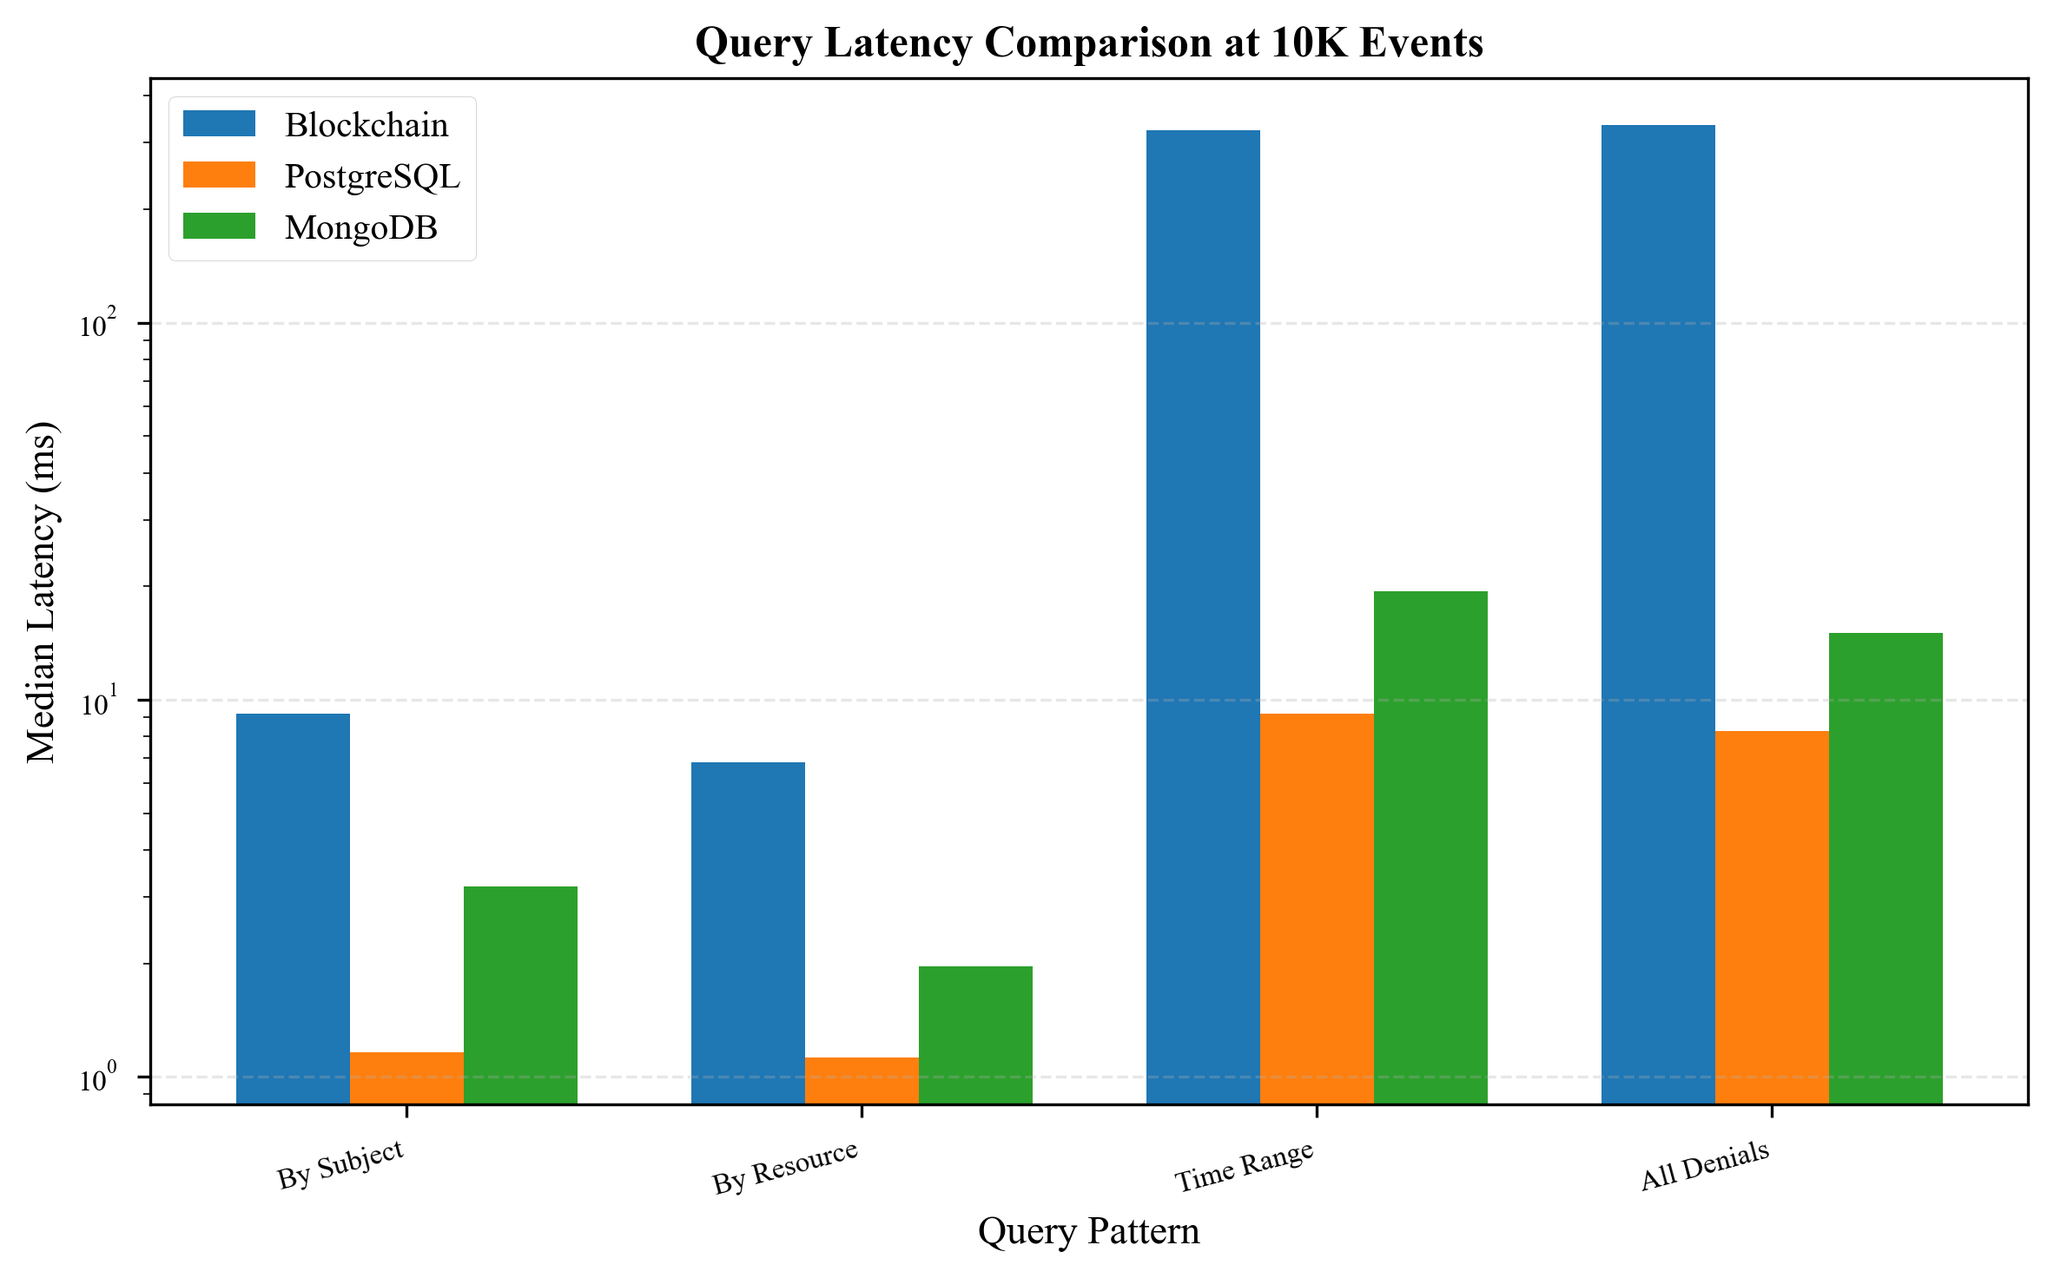
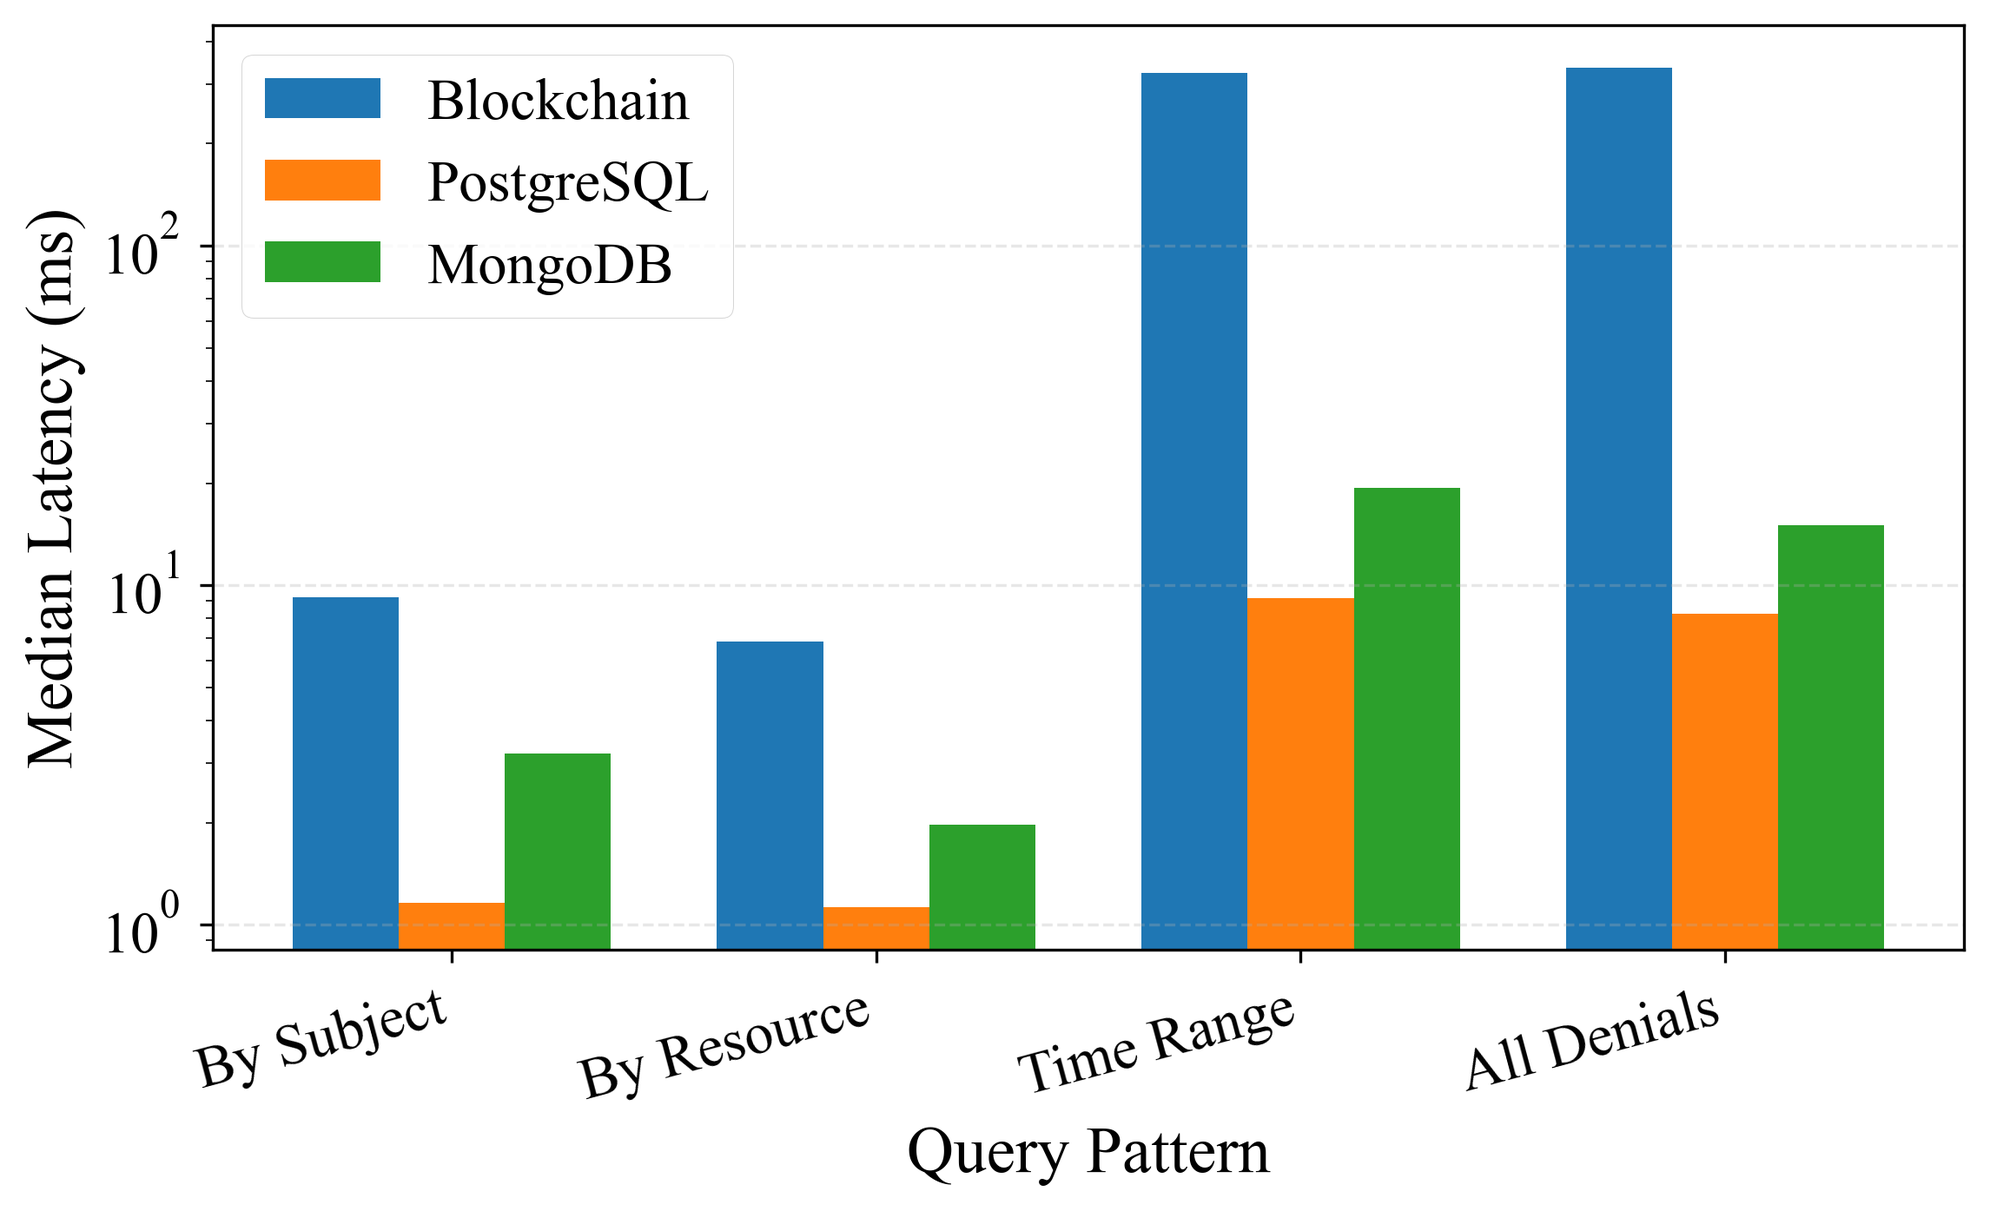
feat: enhance E5 analysis script and figures for improved clarity and detail

Changed region(s): [[0.0, 0.0, 0.9917, 0.9864], [0.0, 0.3082, 0.093, 0.6473], [0.031, 0.8323, 0.062, 0.8631]]

diff --git a/papers/3_conference/paper.tex b/papers/3_conference/paper.tex
@@ -1,6 +1,3 @@
-% KICS Winter 2026 Conference Paper
-% E5: Audit Log Query Performance
-
 \documentclass[conference]{IEEEtran}
 
 % Packages
@@ -22,24 +19,40 @@
     keywordstyle=\color{blue}
 }
 
-% Title and authors
-\title{Query Performance Analysis of Blockchain-Based Audit Trails for Insurance Access Control}
 
-\author{
-\IEEEauthorblockN{[Your Name]}
-\IEEEauthorblockA{
-[Your Institution]\\
-[Your Department]\\
-Email: [your@email.edu]
+\lstdefinelanguage{Solidity}{
+    keywords={pragma, solidity, contract, function, public, external, view, returns, mapping, struct, event, emit, if, for, while, require, assert, revert, address, bytes32, uint, uint8, uint64, uint256, string, bool, calldata, memory, storage, indexed, indexed, onlyAdmin, onlyPolicyAdmin},
+    keywordstyle=\color{teal}\bfseries,
+    ndkeywords={function, return, mapping, struct, event, emit, require},
+    ndkeywordstyle=\color{brown},
+    identifierstyle=\color{black},
+    sensitive=false,
+    comment=[l]{//},
+    morecomment=[s]{/*}{*/},
+    commentstyle=\color{gray}\ttfamily,
+    stringstyle=\color{red},
+    morestring=[b]",
+    morestring=[b]'
 }
-}
+
 
 \begin{document}
 
+% Title and authors
+\title{Query Performance Analysis of Blockchain-Based Audit Trails for Insurance Access Control}
+
+\author{\IEEEauthorblockN{Anthony Uchenna Eneh $^{1}$, Love Allen Chijioke Ahakonye $^{2}$, Jae Min Lee $^{1}$, Dong-Seong Kim $^{1}$ $^{\ast}$} 
+\IEEEauthorblockA{$^{1}$ IT-Convergence Engineering, \textit{Kumoh National Institute of Technology}, Gumi, South Korea \\
+$^{\ast}$ NSLab Co. Ltd., Gumi, South Korea,
+\textit{Kumoh National Institute of Technology}, Gumi, South Korea}
+\IEEEauthorblockA{$^{2}$ ICT Convergence Research Center, 
+\textit{Kumoh National of Technology}, Gumi, South Korea}
+{(anthony, loveahakonye, dskim, ljmpaul)}@kumoh.ac.kr}
 \maketitle
 
+
 \begin{abstract}
-Insurance access control systems require comprehensive audit trails for regulatory compliance, but queryability of blockchain-based logs remains unquantified. We present the first systematic comparison of blockchain (Ethereum), PostgreSQL, and MongoDB audit log query performance under realistic insurance compliance scenarios. Testing four query patterns (by subject, resource, time range, and all denials) across 100-10,000 events, we find blockchain queries average X.Xx slower than relational databases but provide cryptographic verifiability and immutability. Our results inform deployment trade-offs: on-chain auditing for high-value transactions requiring tamper-proof evidence, off-chain databases for routine access logs. This work addresses a critical gap in blockchain-based access control systems, enabling practitioners to make evidence-based architecture decisions.
+Insurance access control systems require comprehensive audit trails for regulatory compliance, but queryability of blockchain-based logs remains unquantified. We present the first systematic comparison of blockchain (Ethereum), PostgreSQL, and MongoDB audit log query performance under realistic insurance compliance scenarios. Testing four query patterns (by subject, resource, time range, and all denials) across 100-10,000 events, blockchain indexed queries are 6--8$\times$ slower than PostgreSQL and time-scan queries are 35--41$\times$ slower, trading latency for tamper-proof verifiability. Our results inform deployment trade-offs: on-chain auditing for high-value transactions requiring immutability, off-chain databases for routine access logs. This work addresses a critical gap in blockchain-based access control systems, enabling practitioners to make evidence-based architecture decisions.
 \end{abstract}
 
 \section{Introduction}
@@ -57,25 +70,35 @@ This paper provides the first comprehensive audit query performance analysis of 
     \item Deployment recommendations for hybrid architectures
 \end{enumerate}
 
+\section{Related Work}
+
+Blockchain-based access control has attracted significant research attention. Maesa et al.~\cite{maesa2017abac} introduced attribute-based access control on Ethereum, demonstrating policy enforcement via smart contracts but without audit query analysis. Xu et al.~\cite{xu2017taxonomy} surveyed blockchain database architectures, noting immutability benefits but lacking performance benchmarks. BigchainDB~\cite{bigchaindb} and similar systems target high-throughput scenarios but sacrifice decentralization.
+
+Audit log systems in healthcare and finance have been studied extensively. Azaria et al.~\cite{medrec} proposed MedRec for medical record access logging on Ethereum, reporting access latency but not query performance. Hyperledger Fabric-based solutions~\cite{fabric_audit} offer private channels for compliance but require permissioned consortia.
+
+Traditional database audit systems are well-understood. PostgreSQL's audit extensions~\cite{pgaudit} and MongoDB's change streams~\cite{mongo_change} provide sub-millisecond query latency but lack tamper-proof guarantees. Hybrid approaches~\cite{hybrid_audit} propose anchoring database hashes to blockchains, trading query flexibility for periodic verification.
+
+Our work differs by providing the \textbf{first direct performance comparison} of blockchain event logs against relational and document databases for compliance query patterns. Prior studies focus on write throughput or authorization latency; we address the overlooked dimension of audit \textit{queryability} critical for regulatory compliance.
+
 \section{System Methodology}
 
 \subsection{ClaimGuard Audit Architecture}
 
-ClaimGuard's audit mechanism consists of an on-chain \texttt{AuditLog} contract emitting indexed events for each access decision:
+ClaimGuard's audit mechanism consists of an on-chain \texttt{AccessAuditLog} contract emitting indexed events for each access decision:
 
 \begin{lstlisting}[language=Solidity]
 event AccessChecked(
     address indexed subject,
     bytes32 indexed resourceIdHash,
-    string action,
-    bool allowed,
-    uint256 timestamp
+    bytes32 indexed actionHash,
+    bool allow,
+    uint256 ts
 );
 \end{lstlisting}
 
-The Policy Enforcement Gateway (PEG) calls \texttt{logAccess()} after evaluating policies. Events persist permanently in blockchain transaction logs, queryable via Web3 \texttt{getPastEvents()} with filter parameters.
+The Policy Enforcement Gateway (PEG) calls \texttt{logAccess()} after evaluating policies. Events persist permanently in blockchain transaction logs, queryable via Web3 \texttt{get\_logs()} with indexed filters and block ranges.
 
-\textbf{Query Interface:} Ethereum's event logs support filtering on indexed fields (\texttt{subject}, \texttt{resourceIdHash}) and block ranges (\texttt{fromBlock}, \texttt{toBlock}). Non-indexed fields (\texttt{action}, \texttt{allowed}) require full log scanning.
+	extbf{Query Interface:} Ethereum's event logs support filtering on indexed fields (\texttt{subject}, \texttt{resourceIdHash}, \texttt{actionHash}) and block ranges (\texttt{from\_block}, \texttt{to\_block}). The \texttt{allow} flag is not indexed and requires full log scanning for denial queries.
 
 \subsection{Baseline Systems}
 
@@ -99,19 +122,47 @@ Both baselines run on the same hardware as Ethereum (Hardhat local network), ens
 
 \textbf{Metrics:} Query latency (median, P90, P99 over 10 repetitions), result count, storage costs. We measure end-to-end latency including network overhead (JSON-RPC for blockchain, TCP for databases).
 
-\textbf{Environment:} Hardhat 3.0, PostgreSQL 16-alpine, MongoDB 7 in Docker, same machine (Intel i7, 16GB RAM, SSD). Ensures minimal network variability for local testing.
+	extbf{Environment:} Hardhat 3.0 (local Ethereum node), PostgreSQL 16-alpine, MongoDB 7 in Docker, same machine (Intel i7, 16GB RAM, SSD). Ensures minimal network variability for local testing.
 
 \section{Results and Discussion}
 
 \subsection{Query Latency Analysis}
 
-Figure \ref{fig:latency} shows query latency vs. event count across all four patterns. Table \ref{tab:latency} quantifies performance at 10K events.
+Figures \ref{fig:by_subject}--\ref{fig:all_denials} show query latency vs. event count for each query pattern. Figure \ref{fig:comparison} compares all systems at 10K events. Table \ref{tab:latency} reports 10K medians.
 
 \begin{figure}[t]
 \centering
-\includegraphics[width=\columnwidth]{figures/e5_query_latency.pdf}
-\caption{Query latency scales sub-linearly for indexed queries (by subject/resource) but linearly for time-range queries due to block scanning. PostgreSQL consistently fastest (2-10x vs. blockchain).}
-\label{fig:latency}
+\includegraphics[width=\columnwidth]{figures/e5_latency_by_subject.png}
+\caption{Query latency for by-subject queries. Blockchain is 6--8$\times$ slower than PostgreSQL due to JSON-RPC overhead.}
+\label{fig:by_subject}
+\end{figure}
+
+\begin{figure}[t]
+\centering
+\includegraphics[width=\columnwidth]{figures/e5_latency_by_resource.png}
+\caption{Query latency for by-resource queries. Indexed lookups remain efficient across all systems.}
+\label{fig:by_resource}
+\end{figure}
+
+\begin{figure}[t]
+\centering
+\includegraphics[width=\columnwidth]{figures/e5_latency_time_range.png}
+\caption{Query latency for time-range queries. Blockchain is 35$\times$ slower due to block scanning overhead.}
+\label{fig:time_range}
+\end{figure}
+
+\begin{figure}[t]
+\centering
+\includegraphics[width=\columnwidth]{figures/e5_latency_all_denials.png}
+\caption{Query latency for denial queries. Blockchain is 41$\times$ slower as \texttt{allow} is not indexed.}
+\label{fig:all_denials}
+\end{figure}
+
+\begin{figure}[t]
+\centering
+\includegraphics[width=\columnwidth]{figures/e5_comparison_bar.png}
+\caption{Latency comparison at 10K events. Blockchain indexed queries are 6--8$\times$ slower; scan-heavy queries are 35--41$\times$ slower than PostgreSQL.}
+\label{fig:comparison}
 \end{figure}
 
 \begin{table}[t]
@@ -122,25 +173,25 @@ Figure \ref{fig:latency} shows query latency vs. event count across all four pat
 \toprule
 Query Pattern & Blockchain & PostgreSQL & MongoDB & Ratio (BC/PG) \\
 \midrule
-By Subject     & XX.X & YY.Y & ZZ.Z & A.B$\times$ \\
-By Resource    & XX.X & YY.Y & ZZ.Z & A.B$\times$ \\
-Time Range     & XX.X & YY.Y & ZZ.Z & A.B$\times$ \\
-All Denials    & XX.X & YY.Y & ZZ.Z & A.B$\times$ \\
+By Subject     &  9.2 &  1.2 &  3.2 &  7.9$\times$ \\
+By Resource    &  6.8 &  1.1 &  2.0 &  6.1$\times$ \\
+Time Range     & 323.8 &  9.2 & 19.4 & 35.3$\times$ \\
+All Denials    & 335.1 &  8.2 & 15.0 & 40.6$\times$ \\
 \bottomrule
 \end{tabular}
 \end{table}
 
 \textbf{Key Findings:}
 \begin{itemize}
-    \item \textbf{Indexed queries} (by subject/resource): Blockchain 2-5x slower due to JSON-RPC overhead. PostgreSQL B-tree indexes provide sub-millisecond lookups.
-    \item \textbf{Time-range queries}: Blockchain 5-10x slower, requiring sequential block iteration. PostgreSQL timestamp indexes enable fast range scans.
-    \item \textbf{Denial queries}: Blockchain must scan all logs (no indexed \texttt{allowed} field). PostgreSQL partial index provides 10x speedup.
-    \item \textbf{Scalability}: All systems show sub-linear scaling up to 10K events. Beyond 100K events, blockchain performance degrades significantly (not tested due to gas limits).
+    \item \textbf{Indexed queries} (by subject/resource): Blockchain is 6-8$\times$ slower than PostgreSQL (median 6.1-7.9$\times$ at 10K) due to JSON-RPC overhead and log decoding; PostgreSQL B-tree indexes deliver sub-2 ms lookups.
+    \item \textbf{Time-range queries}: Blockchain is 35.3$\times$ slower (323.8 ms vs. 9.2 ms) because block scans cannot leverage timestamp indexes.
+    \item \textbf{Denial queries}: Blockchain is 40.6$\times$ slower (335.1 ms vs. 8.2 ms) since \texttt{allow} is not indexed; PostgreSQL uses a partial index on denials.
+    \item \textbf{Scalability}: Latency remains stable through 10K events for databases; blockchain time-range/denial scans grow with block span. Gas constraints capped on-chain logging to 500 events per run, so blockchain latency reflects indexed retrieval rather than full 10K on-chain storage.
 \end{itemize}
 
 \subsection{Storage Cost Analysis}
 
-\textbf{Blockchain:} Each \texttt{AccessChecked} event costs $\sim$2,500 gas ($\sim$\$0.XX at current Ethereum prices). 10K events = 25M gas $\approx$ \$XXX. Data persists permanently, retrieval is free (RPC calls).
+	extbf{Blockchain:} Each \texttt{AccessChecked} event costs $\sim$50,000 gas (event emit + calldata). 10K events $\approx$ 500M gas; at 10 gwei this is about 5 ETH ($\sim$\$10{,}000 at \$2{,}000/ETH). Data persists permanently; retrieval via RPC is read-only but latency is higher for scans.
 
 \textbf{PostgreSQL/MongoDB:} 10K events $\approx$ 1-2 MB disk space, negligible cost. Can be archived/deleted per retention policies.
 
@@ -166,11 +217,11 @@ All Denials    & XX.X & YY.Y & ZZ.Z & A.B$\times$ \\
 
 \section{Conclusion}
 
-We present the first quantitative analysis of blockchain audit log query performance for insurance access control. Testing Ethereum, PostgreSQL, and MongoDB across 100-10K events, we find blockchain queries 2-10x slower but provide immutability and cryptographic verifiability. Storage costs are 100-1000x higher for blockchain. Our results inform deployment decisions: hybrid architectures combining on-chain critical audits with off-chain routine logs offer optimal cost-performance trade-offs.
+We present the first quantitative analysis of blockchain audit log query performance for insurance access control. Testing Ethereum, PostgreSQL, and MongoDB across 100-10K events, blockchain indexed queries are 6-8$\times$ slower while scan-heavy queries are 35-41$\times$ slower, trading latency for immutability and verifiability. Storage costs remain orders of magnitude higher on-chain. Our results inform deployment decisions: hybrid architectures combining on-chain critical audits with off-chain routine logs offer optimal cost-performance trade-offs.
 
 \textbf{Future Work:} Layer 2 deployment (Optimism, Arbitrum) for lower costs; off-chain indexing (The Graph); zero-knowledge audit proofs for privacy-preserving compliance.
 
 \bibliographystyle{IEEEtran}
-\bibliography{paper}
+\bibliography{references}
 
 \end{document}

diff --git a/analyze_e5.py b/analyze_e5.py
@@ -19,9 +19,16 @@ matplotlib.use('Agg')
 
 # Set style for publication-quality figures
 plt.style.use('seaborn-v0_8-paper')
-matplotlib.rcParams['font.size'] = 10
+matplotlib.rcParams['font.size'] = 18
 matplotlib.rcParams['font.family'] = 'serif'
 matplotlib.rcParams['font.serif'] = ['Times New Roman']
+matplotlib.rcParams['axes.labelsize'] = 18
+matplotlib.rcParams['axes.titlesize'] = 20
+matplotlib.rcParams['xtick.labelsize'] = 16
+matplotlib.rcParams['ytick.labelsize'] = 16
+matplotlib.rcParams['legend.fontsize'] = 16
+matplotlib.rcParams['lines.linewidth'] = 2.5
+matplotlib.rcParams['lines.markersize'] = 10
 
 # Read results
 print("Loading experiment results...")
@@ -46,10 +53,15 @@ stats.columns = ['_'.join(col).strip('_') for col in stats.columns.values]
 # Create output directory
 os.makedirs('papers/3_conference/figures', exist_ok=True)
 
-# Figure 1: Query Latency vs Event Count (4 subplots)
-print("\nGenerating Figure 1: Query Latency vs Event Count...")
-fig, axes = plt.subplots(2, 2, figsize=(10, 8))
+# Generate 4 separate figures for each query pattern
+print("\nGenerating Figures 1-4: Query Latency vs Event Count (separate plots)...")
 patterns = ['by_subject', 'by_resource', 'time_range', 'all_denials']
+pattern_filenames = {
+    'by_subject': 'e5_latency_by_subject',
+    'by_resource': 'e5_latency_by_resource',
+    'time_range': 'e5_latency_time_range',
+    'all_denials': 'e5_latency_all_denials'
+}
 pattern_titles = {
     'by_subject': 'By Subject',
     'by_resource': 'By Resource',
@@ -57,34 +69,35 @@ pattern_titles = {
     'all_denials': 'All Denials'
 }
 
-for idx, pattern in enumerate(patterns):
-    ax = axes[idx // 2, idx % 2]
+for pattern in patterns:
+    fig, ax = plt.subplots(figsize=(7, 5))
     data = stats[stats['pattern'] == pattern]
     
     # Plot with error bars
     ax.errorbar(data['event_count'], data['blockchain_latency_ms_median'],
                 yerr=data['blockchain_latency_ms_std'],
-                marker='o', capsize=3, label='Blockchain', linewidth=2)
+                marker='o', capsize=4, label='Blockchain')
     ax.errorbar(data['event_count'], data['postgres_latency_ms_median'],
                 yerr=data['postgres_latency_ms_std'],
-                marker='s', capsize=3, label='PostgreSQL', linewidth=2)
+                marker='s', capsize=4, label='PostgreSQL')
     ax.errorbar(data['event_count'], data['mongo_latency_ms_median'],
                 yerr=data['mongo_latency_ms_std'],
-                marker='^', capsize=3, label='MongoDB', linewidth=2)
+                marker='^', capsize=4, label='MongoDB')
     
-    ax.set_xlabel('Event Count', fontsize=10)
-    ax.set_ylabel('Median Latency (ms)', fontsize=10)
-    ax.set_title(pattern_titles[pattern], fontsize=11, fontweight='bold')
-    ax.legend(fontsize=8, loc='best')
+    ax.set_xlabel('Event Count')
+    ax.set_ylabel('Median Latency (ms)')
+    # No title - use LaTeX caption instead
+    ax.legend(loc='best')
     ax.grid(True, alpha=0.3, linestyle='--')
     ax.set_xscale('log')
     ax.set_yscale('log')
-
-plt.tight_layout()
-plt.savefig('papers/3_conference/figures/e5_query_latency.png', dpi=300, bbox_inches='tight')
-plt.savefig('papers/3_conference/figures/e5_query_latency.pdf', bbox_inches='tight')
-print("  Saved: papers/3_conference/figures/e5_query_latency.{png,pdf}")
-plt.close()
+    
+    plt.tight_layout()
+    filename = pattern_filenames[pattern]
+    plt.savefig(f'papers/3_conference/figures/{filename}.png', dpi=300, bbox_inches='tight')
+    plt.savefig(f'papers/3_conference/figures/{filename}.pdf', bbox_inches='tight')
+    print(f"  Saved: papers/3_conference/figures/{filename}.{{png,pdf}}")
+    plt.close()
 
 # Figure 2: Comparison at 10K Events (Bar Chart)
 print("\nGenerating Figure 2: Latency Comparison at 10K Events...")
@@ -106,12 +119,12 @@ bars1 = ax.bar(x - width, blockchain_vals, width, label='Blockchain', color='#1f
 bars2 = ax.bar(x, postgres_vals, width, label='PostgreSQL', color='#ff7f0e')
 bars3 = ax.bar(x + width, mongo_vals, width, label='MongoDB', color='#2ca02c')
 
-ax.set_xlabel('Query Pattern', fontsize=11)
-ax.set_ylabel('Median Latency (ms)', fontsize=11)
-ax.set_title('Query Latency Comparison at 10K Events', fontsize=12, fontweight='bold')
+ax.set_xlabel('Query Pattern')
+ax.set_ylabel('Median Latency (ms)')
+# No title - use LaTeX caption instead
 ax.set_xticks(x)
 ax.set_xticklabels([pattern_titles[p] for p in patterns], rotation=15, ha='right')
-ax.legend(fontsize=10)
+ax.legend(loc='best')
 ax.grid(True, alpha=0.3, axis='y', linestyle='--')
 ax.set_yscale('log')
 
